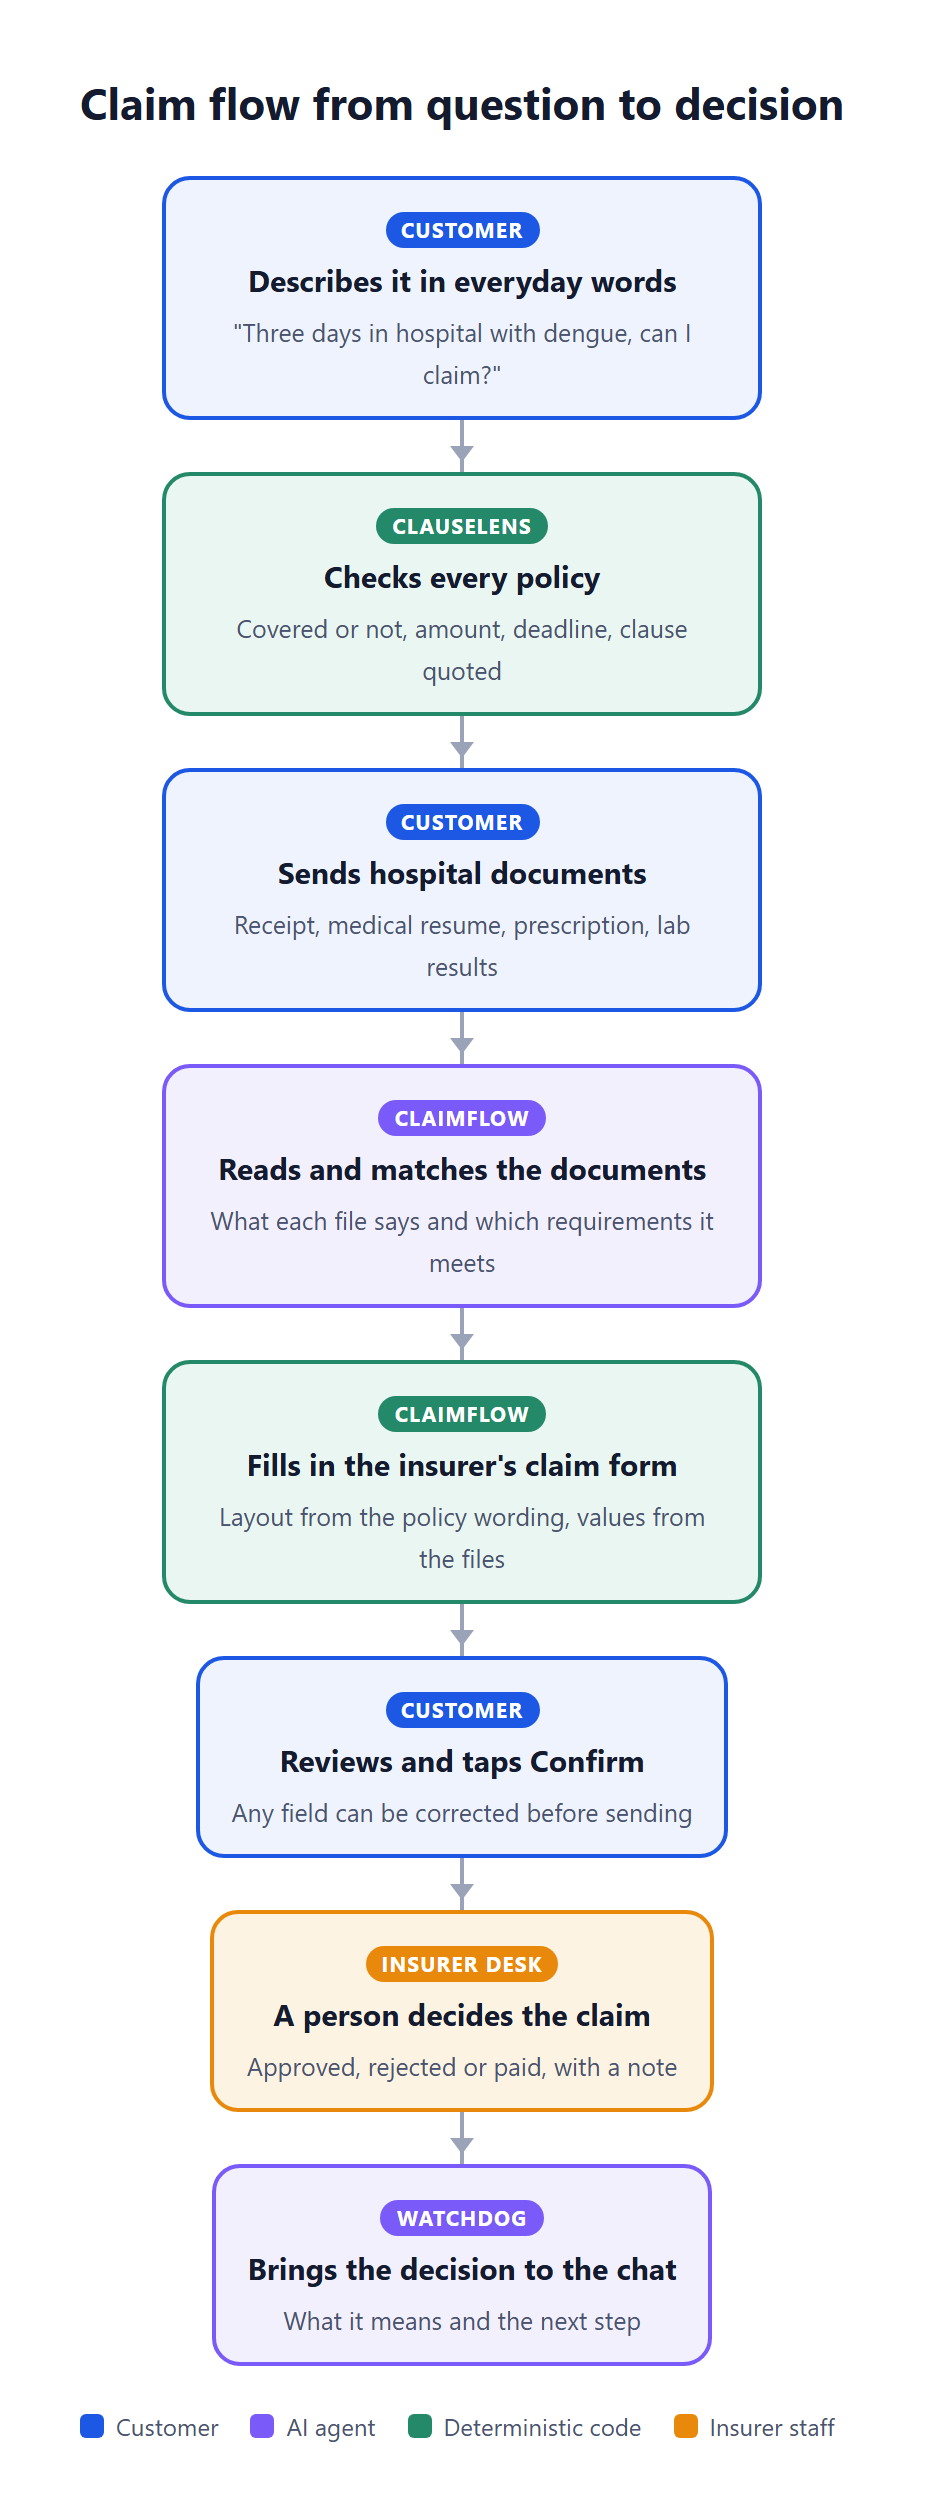
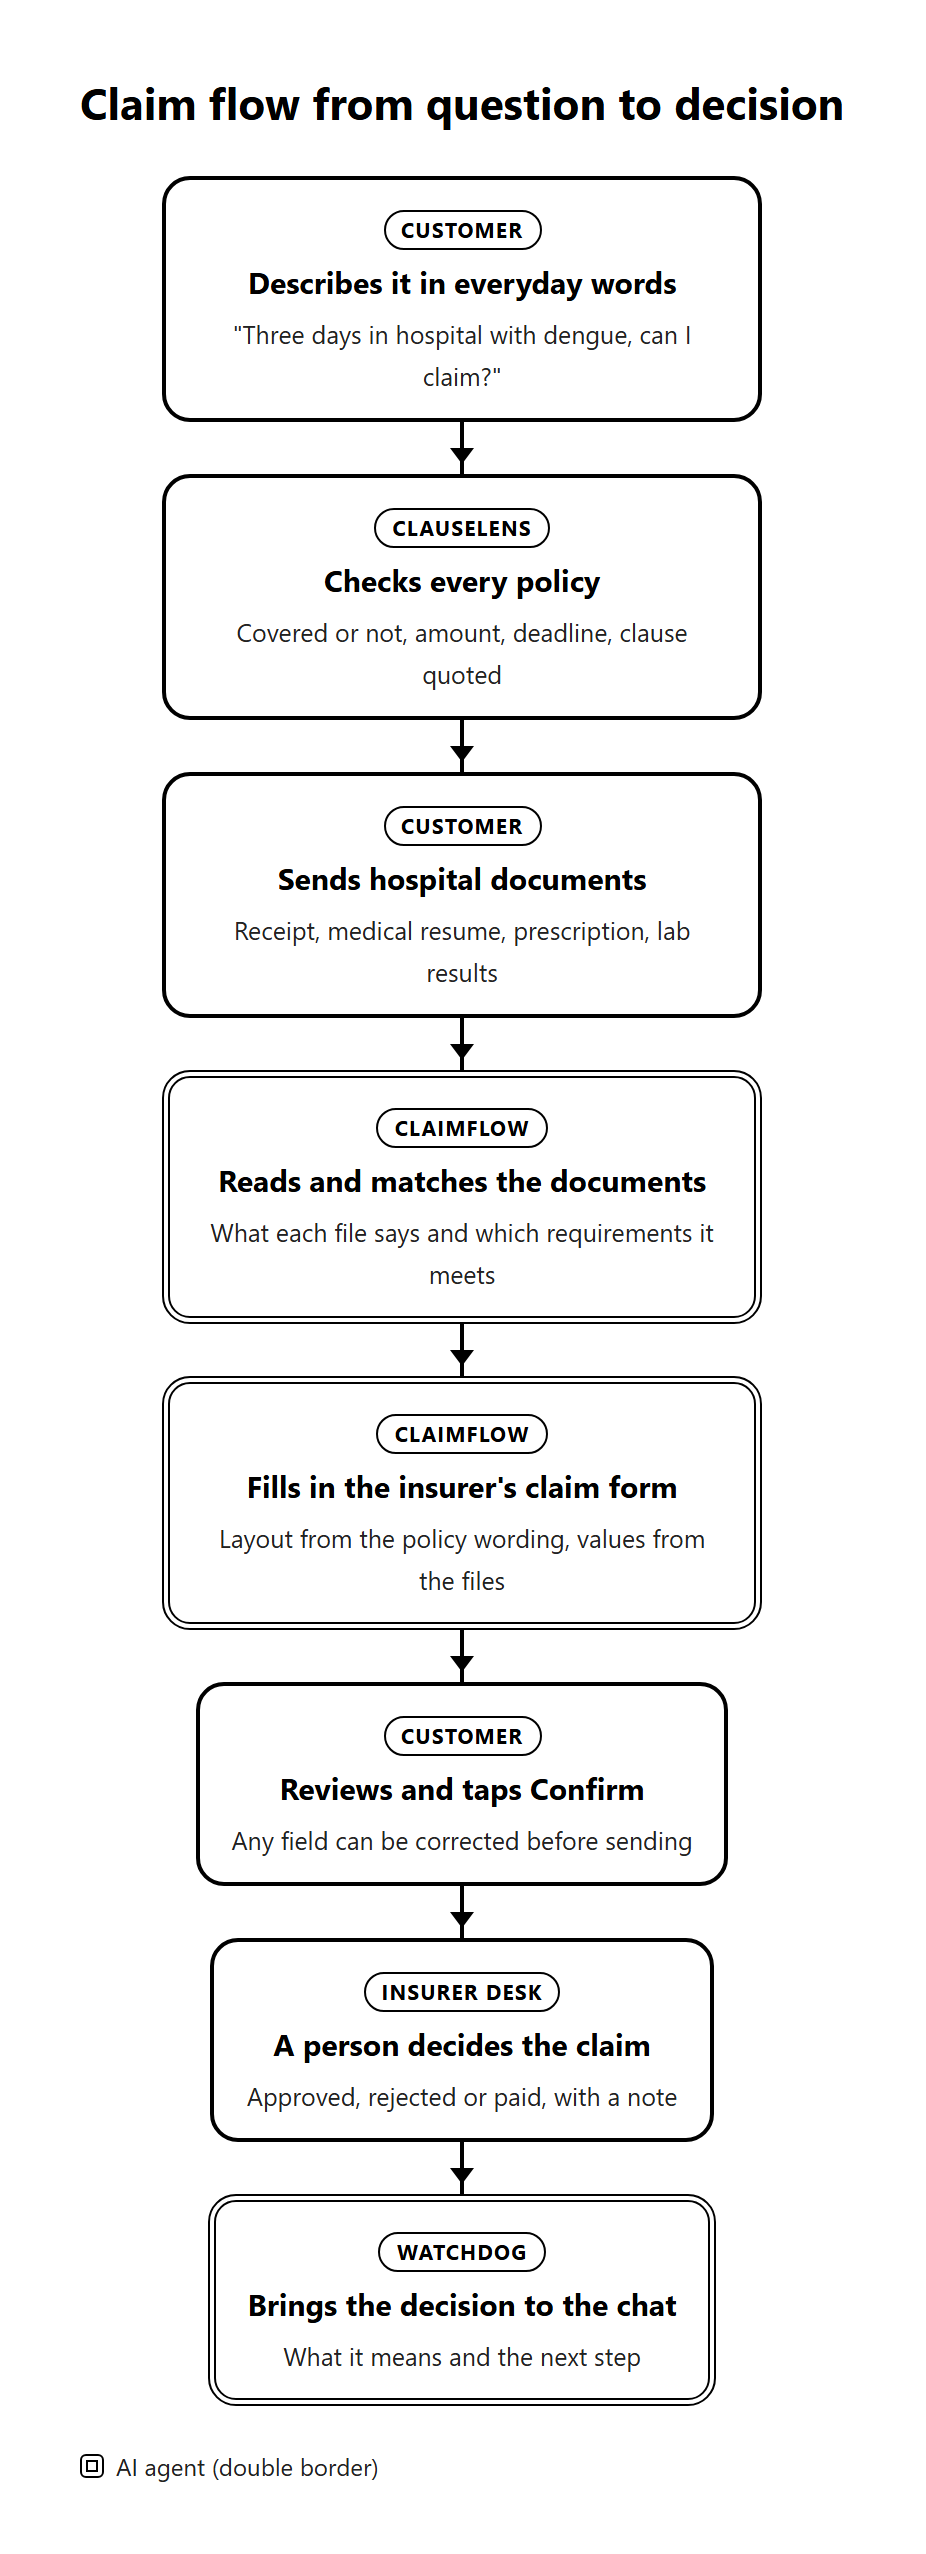
Flowcharts in black and white, turn order matches the agent loop

diff --git a/clauseguard/docs/diagrams/make_flows.py b/clauseguard/docs/diagrams/make_flows.py
@@ -13,41 +13,38 @@ WEB = HERE.parents[2] / "clauseguard-web"
 
 CSS = """
 *{box-sizing:border-box;margin:0;padding:0}
-body{font-family:'Segoe UI',Inter,Arial,sans-serif;background:#fff;color:#141B2E}
+body{font-family:'Segoe UI',Inter,Arial,sans-serif;background:#fff;color:#000}
 .wrap{padding:36px 40px;display:inline-block}
 h1{font-size:22px;font-weight:700;margin-bottom:22px}
 .col{display:flex;flex-direction:column;align-items:center;gap:0}
 .row{display:flex;align-items:stretch;gap:0}
 .box{border-radius:14px;padding:12px 16px;border:2px solid;min-width:250px;max-width:300px;text-align:center}
 .box b{display:block;font-size:15px;margin-bottom:4px}
-.box span{font-size:12.5px;color:#4A5370;line-height:1.35}
+.box span{font-size:12.5px;color:#222;line-height:1.35}
 .tag{display:inline-block;font-size:10.5px;font-weight:700;letter-spacing:.6px;text-transform:uppercase;padding:2px 8px;border-radius:999px;margin-bottom:6px}
-.user{border-color:#1C58E3;background:#EEF3FD}.user .tag{background:#1C58E3;color:#fff}
-.ai{border-color:#7A5AF8;background:#F3F0FE}.ai .tag{background:#7A5AF8;color:#fff}
-.code{border-color:#248968;background:#EAF6F1}.code .tag{background:#248968;color:#fff}
-.human{border-color:#E9890C;background:#FDF3E3}.human .tag{background:#E9890C;color:#fff}
-.stop{border-color:#D6293F;background:#FCEBED}.stop .tag{background:#D6293F;color:#fff}
-.dec{border-color:#141B2E;background:#fff;border-style:dashed}
-.down{width:2px;height:26px;background:#9AA3B8;position:relative;margin:0 auto}
-.down:after{content:'';position:absolute;bottom:-1px;left:-5px;border:6px solid transparent;border-top:8px solid #9AA3B8}
-.right{height:2px;width:34px;background:#9AA3B8;position:relative;align-self:center}
-.right:after{content:'';position:absolute;right:-2px;top:-5px;border:6px solid transparent;border-left:8px solid #9AA3B8}
-.lbl{font-size:11.5px;color:#4A5370;font-weight:600;padding:4px 0}
-.legend{display:flex;gap:16px;margin-top:22px;font-size:12px;color:#4A5370}
+.box{background:#fff;border-color:#000}.tag{border:1.5px solid #000;color:#000;background:#fff}
+.human,.user{border-style:solid}.ai{border-style:double;border-width:4px}.code{border-width:2px}.stop{border-width:3px}
+.dec{border-color:#000;background:#fff;border-style:dashed}
+.down{width:2px;height:26px;background:#000;position:relative;margin:0 auto}
+.down:after{content:'';position:absolute;bottom:-1px;left:-5px;border:6px solid transparent;border-top:8px solid #000}
+.right{height:2px;width:34px;background:#000;position:relative;align-self:center}
+.right:after{content:'';position:absolute;right:-2px;top:-5px;border:6px solid transparent;border-left:8px solid #000}
+.lbl{font-size:11.5px;color:#222;font-weight:600;padding:4px 0}
+.legend{display:flex;gap:16px;margin-top:22px;font-size:12px;color:#222}
 .legend i{display:inline-block;width:12px;height:12px;border-radius:3px;margin-right:6px;vertical-align:-1px}
 .branch{display:flex;gap:28px;align-items:flex-start}
 """
 
 T = {
     "id": {
-        "legend": [("user", "#1C58E3", "Nasabah"), ("ai", "#7A5AF8", "Agen AI"), ("code", "#248968", "Kode deterministik"), ("human", "#E9890C", "Petugas penanggung")],
+        "legend": [("user", "#1C58E3", "Nasabah"), ("ai", "#7A5AF8", "Agen AI (garis ganda)"), ("code", "#248968", "Kode deterministik"), ("human", "#E9890C", "Petugas penanggung")],
         "claim_title": "Alur klaim dari pertanyaan sampai keputusan",
         "claim": [
             ("user", "Nasabah", "Bercerita dengan bahasa sehari-hari", "\"Dirawat 3 hari karena DBD, bisa klaim?\""),
             ("code", "ClauseLens", "Memeriksa semua polis", "Ditanggung atau tidak, jumlah, tenggat, kutipan klausul"),
             ("user", "Nasabah", "Mengirim dokumen rumah sakit", "Kuitansi, resume medis, resep, hasil lab"),
             ("ai", "ClaimFlow", "Membaca dan mencocokkan dokumen", "Isi setiap berkas dan dokumen wajib yang terpenuhi"),
-            ("code", "ClaimFlow", "Mengisi formulir klaim penanggung", "Tata letak dari redaksi polis, nilai dari dokumen"),
+            ("ai", "ClaimFlow", "Mengisi formulir klaim penanggung", "Tata letak dari redaksi polis, nilai dari dokumen"),
             ("user", "Nasabah", "Memeriksa dan menekan Konfirmasi", "Kolom dapat dikoreksi sebelum dikirim"),
             ("human", "Meja penanggung", "Petugas memutuskan klaim", "Disetujui, ditolak, atau dibayar, dengan catatan"),
             ("ai", "Watchdog", "Menyampaikan keputusan ke chat", "Arti keputusan dan langkah berikutnya"),
@@ -55,9 +52,9 @@ T = {
         "turn_title": "Alur keputusan dalam satu giliran percakapan",
         "turn": [
             ("user", "Pesan nasabah", "Teks bebas atau berkas", ""),
-            ("ai", "Conversation Agent", "Hubungan pesan dengan percakapan", "Situasi baru, koreksi, jawaban, pengandaian, umum"),
             ("code", "Aturan keamanan", "Diputuskan kode lebih dulu", "Misrepresentasi, data orang lain, ubah rekening"),
             ("ai", "Planner Agent", "Maksud, topik, dan alat", "Dokumen, tenggat, jumlah, kemajuan klaim"),
+            ("ai", "Conversation Agent", "Hubungan pesan dengan percakapan", "Situasi baru, koreksi, jawaban, pengandaian, umum"),
             ("code", "Guardian", "Memeriksa izin setiap alat", "Tingkat T0 sampai T3 dan mode otonomi"),
             ("ai", "Fact Agent", "Kalimat menjadi fakta bertipe", "Tanggal, hari rawat, tagihan, penyebab"),
             ("code", "Mesin aturan", "Menghitung putusan per polis", "Cakupan, jumlah, tenggat, urutan pembayar"),
@@ -76,14 +73,14 @@ T = {
         ],
     },
     "en": {
-        "legend": [("user", "#1C58E3", "Customer"), ("ai", "#7A5AF8", "AI agent"), ("code", "#248968", "Deterministic code"), ("human", "#E9890C", "Insurer staff")],
+        "legend": [("user", "#1C58E3", "Customer"), ("ai", "#7A5AF8", "AI agent (double border)"), ("code", "#248968", "Deterministic code"), ("human", "#E9890C", "Insurer staff")],
         "claim_title": "Claim flow from question to decision",
         "claim": [
             ("user", "Customer", "Describes it in everyday words", "\"Three days in hospital with dengue, can I claim?\""),
             ("code", "ClauseLens", "Checks every policy", "Covered or not, amount, deadline, clause quoted"),
             ("user", "Customer", "Sends hospital documents", "Receipt, medical resume, prescription, lab results"),
             ("ai", "ClaimFlow", "Reads and matches the documents", "What each file says and which requirements it meets"),
-            ("code", "ClaimFlow", "Fills in the insurer's claim form", "Layout from the policy wording, values from the files"),
+            ("ai", "ClaimFlow", "Fills in the insurer's claim form", "Layout from the policy wording, values from the files"),
             ("user", "Customer", "Reviews and taps Confirm", "Any field can be corrected before sending"),
             ("human", "Insurer desk", "A person decides the claim", "Approved, rejected or paid, with a note"),
             ("ai", "Watchdog", "Brings the decision to the chat", "What it means and the next step"),
@@ -91,9 +88,9 @@ T = {
         "turn_title": "Decision flow in one conversation turn",
         "turn": [
             ("user", "Customer message", "Free text or a file", ""),
-            ("ai", "Conversation Agent", "How the message relates to the chat", "New situation, correction, answer, what-if, general"),
             ("code", "Safety rules", "Decided by code first", "Misrepresentation, other people's data, account changes"),
             ("ai", "Planner Agent", "Intent, topic and tools", "Documents, deadline, amount, claim progress"),
+            ("ai", "Conversation Agent", "How the message relates to the chat", "New situation, correction, answer, what-if, general"),
             ("code", "Guardian", "Checks every tool's permission", "Tiers T0 to T3 and the autonomy mode"),
             ("ai", "Fact Agent", "Sentences into typed facts", "Dates, days in hospital, bill, cause"),
             ("code", "Rules engine", "Computes the verdict per policy", "Coverage, amount, deadline, payer order"),
@@ -120,7 +117,8 @@ def box(kind, tag, title, sub):
 
 
 def legend(t):
-    return '<div class="legend">' + "".join(f'<div><i style="background:{c}"></i>{n}</div>' for _, c, n in t["legend"]) + "</div>"
+    st={"user":"2px solid #000","ai":"4px double #000","code":"2px solid #000","human":"2px solid #000"}
+    return '<div class="legend">' + "".join(f'<div><i style="border:{st[k]};background:#fff"></i>{n}</div>' for k, _, n in t["legend"] if k == "ai") + "</div>"
 
 
 def claim_html(t):
